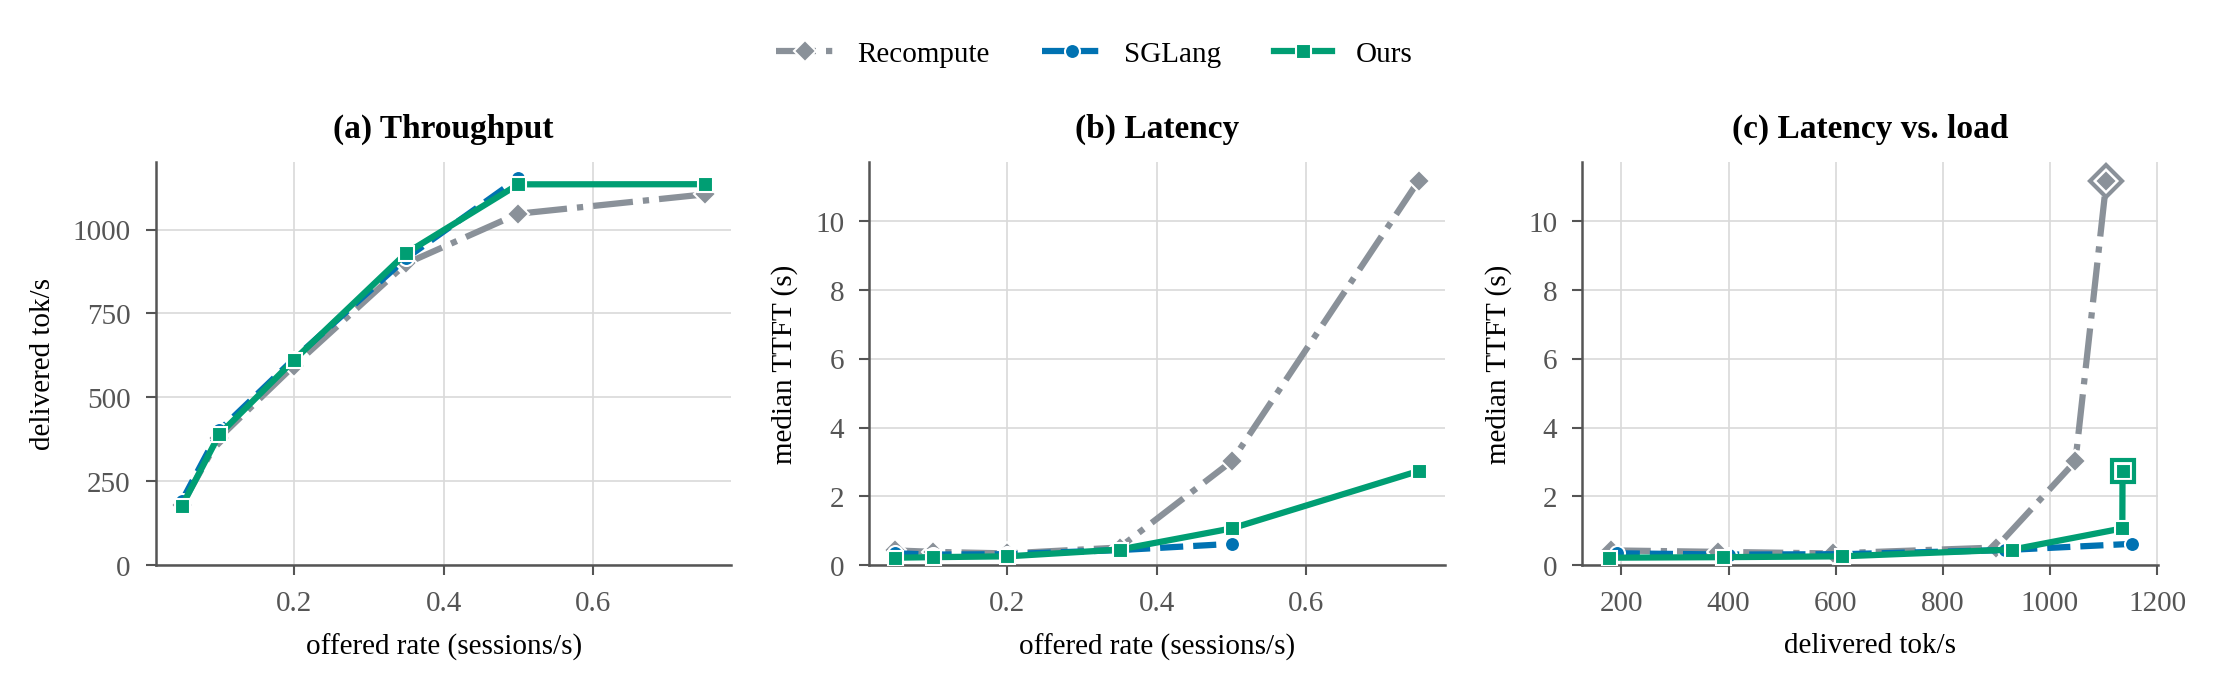
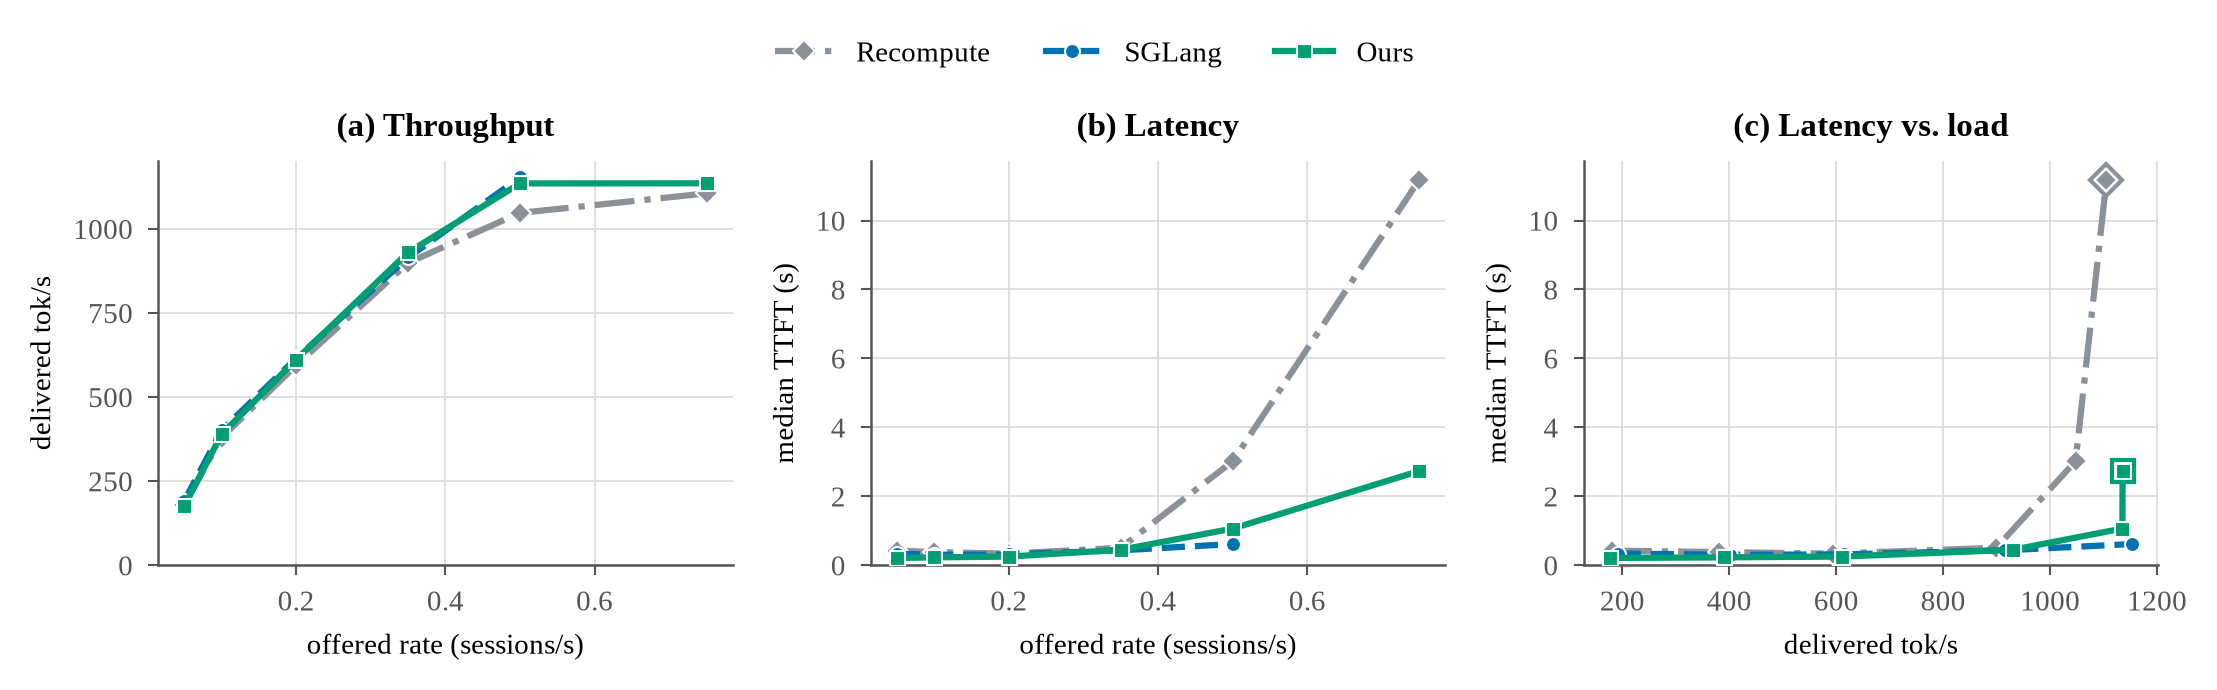
Add SLO capacity and an equal-memory hicache arm to the QPS sweep
The llama8b sweep saturates on DECODE, not prefill: all three arms plateau
within 4% of each other (1105 / 1153 / 1135 tok/s) despite recompute doing
roughly 20x park's prefill work. Peak throughput therefore separates nothing,
and my expectation that open-loop arrivals would surface a throughput win was
wrong for this configuration.

SLO capacity replaces it as the headline: delivered tok/s while median TTFT
stays under a budget, interpolated at the crossing. That is the question a
deployment asks, and unlike peak throughput it does move with prefill work
(Ours carries 1.20x recompute at a 1 s budget).

The sweep also shows Ours beating SGLang at light load (1.60x lower TTFT at
0.05 sess/s, reproducing the closed-loop result at comparable concurrency) and
LOSING above ~0.35 sess/s (0.58x at 0.5). That inversion is confounded: the
park arm runs at --mem-fraction-static 0.70 AND allocates its park buffer
outside that, so its serving KV pool is the smaller of the two, and serving
pool size is what caps resident sequences before queueing. hicache_memfrac
runs hicache at the park arm's budget so the mechanism can answer on its own.

Claude-Session: https://claude.ai/code/session_01AoK4pG7kwrWE4Xc7fqoTVf

diff --git a/benchmark/collect_qps.py b/benchmark/collect_qps.py
@@ -27,6 +27,35 @@ import os
 import re
 
 
+SLOS = [0.5, 1.0, 2.0]
+
+
+def _slo_capacity(rows, slo, key="ttft_p50_s"):
+    """Delivered tok/s at the point where TTFT would cross `slo`.
+
+    Linear interpolation between the last point under budget and the first point over
+    it. Returns None if even the lightest load already exceeds the budget (the arm never
+    meets it) and the top point's throughput if the budget is never crossed (the sweep
+    did not push it far enough -- a lower bound, not a measured capacity).
+    """
+    pts = [r for r in rows if r.get(key) is not None and r.get("throughput_tok_s") is not None]
+    pts.sort(key=lambda r: r["throughput_tok_s"])
+    under = [r for r in pts if r[key] <= slo]
+    if not under:
+        return None
+    last = under[-1]
+    over = [r for r in pts if r["throughput_tok_s"] > last["throughput_tok_s"]
+            and r[key] > slo]
+    if not over:
+        return last["throughput_tok_s"]
+    nxt = over[0]
+    span = nxt[key] - last[key]
+    if span <= 0:
+        return last["throughput_tok_s"]
+    frac = (slo - last[key]) / span
+    return last["throughput_tok_s"] + frac * (nxt["throughput_tok_s"] - last["throughput_tok_s"])
+
+
 def _load(path):
     try:
         with open(path) as fh:
@@ -77,7 +106,7 @@ def main():
         print(f"[error] no open-loop points in {args.dir}")
         return
 
-    canon = ["recompute", "radix", "hicache", "park"]
+    canon = ["recompute", "radix", "hicache", "hicache_memfrac", "park"]
     order = [a for a in canon if a in curves] + [a for a in curves if a not in canon]
 
     for arm in order:
@@ -93,6 +122,36 @@ def main():
             print(f"| {r['rate']} | {r['turn_rate_s']} | {r['throughput_tok_s']} | "
                   f"{r['ttft_p50_s']} | {r['ttft_p95_s']} | {r['peak_inflight']} | "
                   f"{r['unfinished']}/{r['launched']} | {flags} |")
+
+    # SLO capacity: the most load an arm carries while STAYING under a latency budget.
+    #
+    # This, not peak throughput, is the comparison that survives a decode-bound server.
+    # Peak throughput asks "how much can it push if latency is allowed to go anywhere",
+    # and when the bottleneck is decode -- which KV placement does not touch -- every arm
+    # answers the same and the metric separates nothing. Holding latency fixed asks the
+    # question a deployment actually asks, and prefill work does move that answer.
+    print("\n### SLO capacity (delivered tok/s while median TTFT stays under budget)\n")
+    print("| arm | " + " | ".join(f"<= {s}s" for s in SLOS) + " |")
+    print("|---|" + "---|" * len(SLOS))
+    slo_cap = {}
+    for arm in order:
+        cells = []
+        for slo in SLOS:
+            cap = _slo_capacity(curves[arm], slo)
+            slo_cap.setdefault(arm, {})[slo] = cap
+            cells.append("—" if cap is None else f"{cap:.0f}")
+        print(f"| {arm} | " + " | ".join(cells) + " |")
+    for slo in SLOS:
+        p = slo_cap.get("park", {}).get(slo)
+        if not p:
+            continue
+        parts = []
+        for base in ("recompute", "hicache"):
+            b = slo_cap.get(base, {}).get(slo)
+            if b:
+                parts.append(f"{p / b:.2f}x {base}")
+        if parts:
+            print(f"\n- **at {slo}s median TTFT, Ours carries " + ", ".join(parts) + "**")
 
     # Capacity = the highest delivered throughput the arm reached. Reported alongside the
     # rate it needed, because "more tok/s" and "more tok/s at a lower offered rate" are

diff --git a/benchmark/plot_qps.py b/benchmark/plot_qps.py
@@ -25,6 +25,7 @@ from paperstyle import PALETTE, STYLE, use_paper_style, style_axes, savefig
 ARMS = [
     ("recompute", "Recompute", "#8A9199", "recompute"),
     ("hicache",   "SGLang",    PALETTE["hicache"], "hicache"),
+    ("hicache_memfrac", "SGLang (equal mem)", PALETTE["both"], "both"),
     ("park",      "Ours",      PALETTE["park"],    "park"),
 ]
 

diff --git a/results/qps/qps_llama8b/qps.md b/results/qps/qps_llama8b/qps.md
@@ -31,6 +31,20 @@
 | 0.5 | 2.895 | 1135.08 | 1.0653 | 20.6407 | 90 | 0/162 |  |
 | 0.75 | 2.728 | 1135.47 | 2.7348 | 40.6641 | 136 | 80/200 | SATURATED |
 
+### SLO capacity (delivered tok/s while median TTFT stays under budget)
+
+| arm | <= 0.5s | <= 1.0s | <= 2.0s |
+|---|---|---|---|
+| recompute | 883 | 928 | 987 |
+| hicache | 1000 | 1153 | 1153 |
+| park | 947 | 1113 | 1135 |
+
+- **at 0.5s median TTFT, Ours carries 1.07x recompute, 0.95x hicache**
+
+- **at 1.0s median TTFT, Ours carries 1.20x recompute, 0.97x hicache**
+
+- **at 2.0s median TTFT, Ours carries 1.15x recompute, 0.98x hicache**
+
 ### capacity (peak delivered throughput)
 
 | arm | peak tok/s | at rate | TTFT p50 there |
